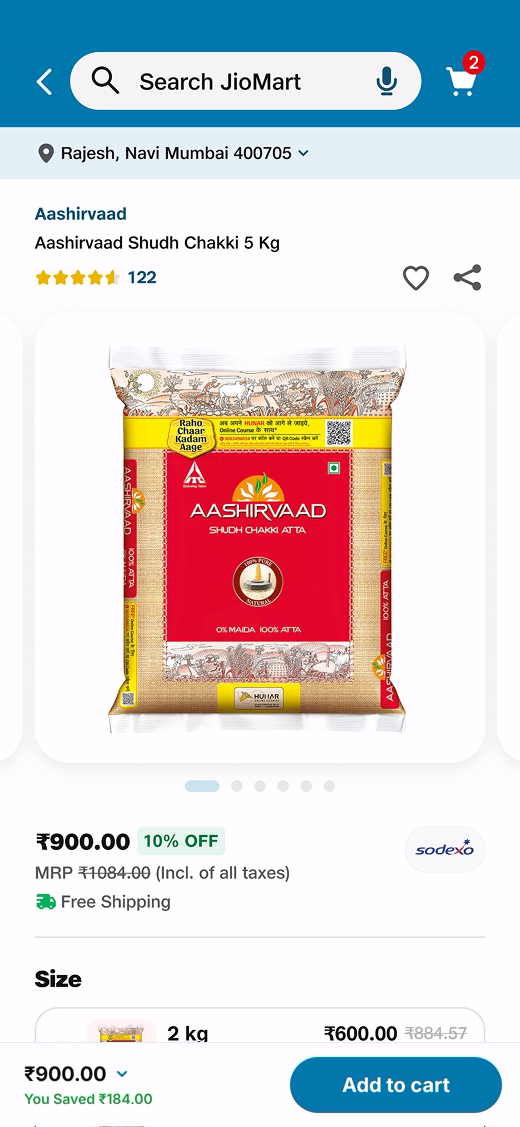
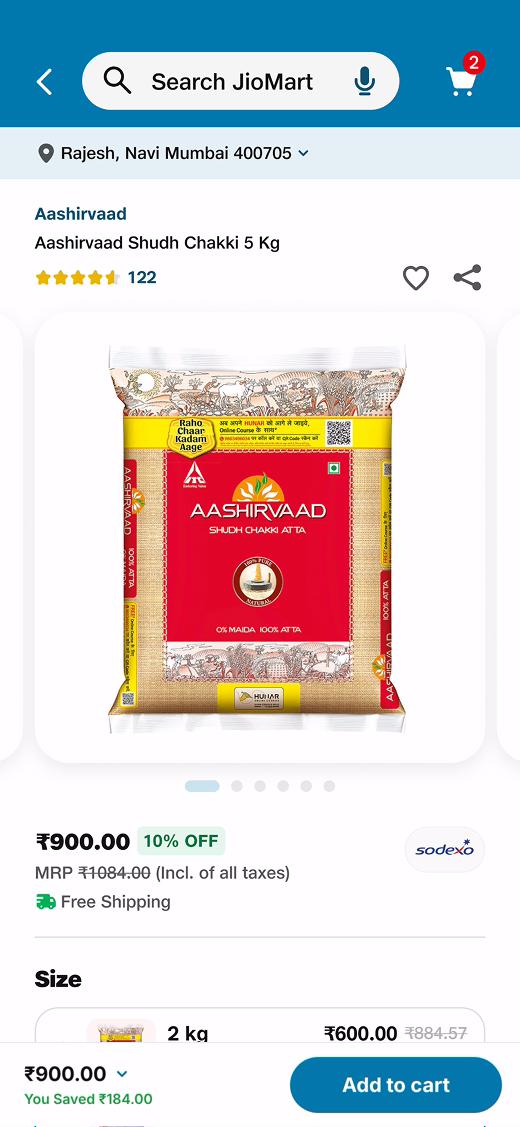
PDP: use the updated search app bar screenshot
Claude-Session: https://claude.ai/code/session_01Hk7si3owCVDs4cH4zgK8o7

diff --git a/jiomart-discovery.html b/jiomart-discovery.html
@@ -78,7 +78,7 @@
               <div class="phone phone-front">
                 <div class="phone-screen">
                   <img
-                    src="./images/enhanceProduct/enhance-v1-pdp-fold.png?v=3"
+                    src="./images/enhanceProduct/enhance-v1-pdp-fold.png?v=4"
                     alt="Redesigned JioMart discovery experience — V1 product page"
                   />
                 </div>
@@ -437,7 +437,7 @@
             </figure>
             <figure class="after">
               <figcaption>My design · V1</figcaption>
-              <div class="shot mock tall has-cta"><span class="mock-notch"></span><div class="mock-scroll"><img src="./images/enhanceProduct/enhance-v1-pdp-full.png?v=3" alt="PDP V1" /></div><img class="pdp-cta" src="./images/enhanceProduct/enhance-v1-pdp-cta.png?v=2" alt="" aria-hidden="true" /></div>
+              <div class="shot mock tall has-cta"><span class="mock-notch"></span><div class="mock-scroll"><img src="./images/enhanceProduct/enhance-v1-pdp-full.png?v=4" alt="PDP V1" /></div><img class="pdp-cta" src="./images/enhanceProduct/enhance-v1-pdp-cta.png?v=2" alt="" aria-hidden="true" /></div>
             </figure>
           </div>
         </div>
@@ -509,9 +509,9 @@
             <figure class="iter-mock">
               <span class="mockf"><span class="mockf-notch"></span><span class="mockf-scroll">
                 <img data-before="./images/enhanceProduct/enhance-problem-pdp-nobar.png"
-                     data-v1="./images/enhanceProduct/enhance-v1-pdp-full.png?v=3"
+                     data-v1="./images/enhanceProduct/enhance-v1-pdp-full.png?v=4"
                      data-live="./images/enhanceProduct/enhance-v2-pdp-main.png"
-                     src="./images/enhanceProduct/enhance-v1-pdp-full.png?v=3" alt="Product detail" />
+                     src="./images/enhanceProduct/enhance-v1-pdp-full.png?v=4" alt="Product detail" />
               </span><img class="pdp-cta" data-cta-stage="v1" src="./images/enhanceProduct/enhance-v1-pdp-cta.png?v=2" alt="" aria-hidden="true" /><img class="pdp-cta old-bar" data-cta-stage="before" hidden src="./images/enhanceProduct/enhance-before-pdp-bar.png" alt="" aria-hidden="true" /></span>
               <figcaption>Product detail</figcaption>
             </figure>

diff --git a/js/jiomart-deck-slides.js b/js/jiomart-deck-slides.js
@@ -170,7 +170,7 @@ window.DECK = {
       headline: ["Making ", "product discovery", " seamless"],
       highlight: "product discovery",
       body: "Shoppers could find products but struggled to choose. I redesigned the journey from Home to product page so deciding feels effortless.",
-      hero: "enhance-v1-pdp-fold.png?v=3",
+      hero: "enhance-v1-pdp-fold.png?v=4",
       backShots: ["enhance-v1-home.png", "enhance-v1-plp.png?v=2"],
       badge: { n: "{{+28%|carts}}", l: "More visits end in a cart" },
       meta: [
@@ -272,7 +272,7 @@ window.DECK = {
       when: ["Until Dec 2022", "Jan – Mar 2023"],
       stages: [
         { img: "enhance-problem-pdp.png", scroll: "enhance-problem-pdp-nobar.png", cta: "enhance-before-pdp-bar.png", ctaH: "37%", n: "Long page, key details buried" },
-        { img: "enhance-v1-pdp-fold.png?v=3", scroll: "enhance-v1-pdp-full.png?v=3", cta: "enhance-v1-pdp-cta.png?v=2", n: "Rating, size and offers moved up" }
+        { img: "enhance-v1-pdp-fold.png?v=4", scroll: "enhance-v1-pdp-full.png?v=4", cta: "enhance-v1-pdp-cta.png?v=2", n: "Rating, size and offers moved up" }
       ],
       decisions: {
         title: "Design decisions",

diff --git a/jiomart-deck.html b/jiomart-deck.html
@@ -58,7 +58,7 @@
       </aside>
     </div>
 
-    <script src="js/jiomart-deck-slides.js?v=144"></script>
+    <script src="js/jiomart-deck-slides.js?v=146"></script>
     <script src="js/jiomart-deck.js?v=137"></script>
     <script src="./js/gate.js?v=3"></script>
   </body>
